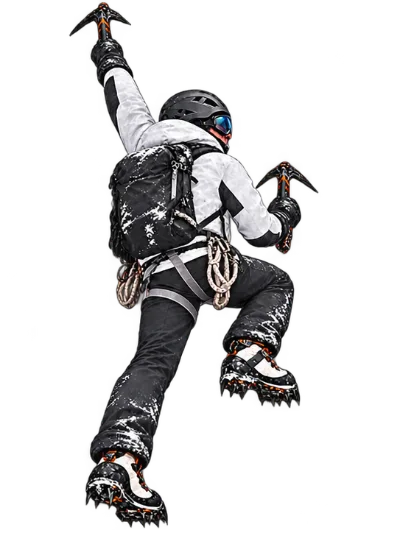
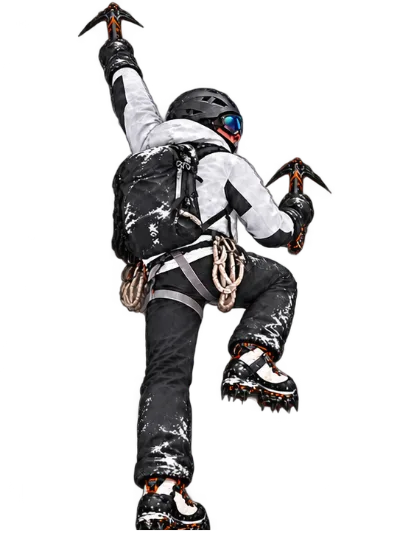
fix: keep Ascent supporting leg beneath climber

Changed region(s): [[0.18, 0.0, 0.84, 1.0]]

diff --git a/_includes/expedition.html b/_includes/expedition.html
@@ -22,7 +22,7 @@
         <ellipse class="expedition-contact-shadow" data-expedition-contact rx="17" ry="5" filter="url(#expedition-contact-blur)" />
         <g class="expedition-climber" data-expedition-climber>
           <svg x="-54" y="-106" width="88" height="117" viewBox="0 0 400 533" overflow="visible">
-            <image data-climber-frame-primary href="{{ '/assets/media/ascent-climber-frame-01.webp' | relative_url }}" width="400" height="533" />
+            <image data-climber-frame-primary href="{{ '/assets/media/ascent-climber-frame-01.webp' | relative_url }}?v=ascent-10" width="400" height="533" />
           </svg>
         </g>
       </g>

diff --git a/assets/js/expedition.js b/assets/js/expedition.js
@@ -17,7 +17,7 @@
   const primaryFrame = climber.querySelector('[data-climber-frame-primary]');
   const firstFrameUrl = primaryFrame.getAttribute('href');
   const frameUrls = Array.from({ length: 17 }, (_, index) =>
-    firstFrameUrl.replace(/01\.webp$/, `${String(index + 1).padStart(2, '0')}.webp`));
+    firstFrameUrl.replace(/01\.webp/, `${String(index + 1).padStart(2, '0')}.webp`));
   // Register each complete illustration by its blue-goggle center. Source
   // sheets varied in character placement; the old unregistered swaps made
   // the whole body jump even when the route/camera was continuous.

diff --git a/_layouts/default.html b/_layouts/default.html
@@ -19,7 +19,7 @@
   <script src="{{ '/assets/js/site.js' | relative_url }}" defer></script>
   <script src="{{ '/assets/js/experience.js' | relative_url }}" defer></script>
   <script src="{{ '/assets/js/contact.js' | relative_url }}" defer></script>
-  {% if page.url == '/journey/' %}<script src="{{ '/assets/js/expedition.js' | relative_url }}?v=ascent-9" defer></script>{% endif %}
+  {% if page.url == '/journey/' %}<script src="{{ '/assets/js/expedition.js' | relative_url }}?v=ascent-10" defer></script>{% endif %}
 </head>
 <body data-baseurl="{{ site.baseurl }}">
   {% include header.html %}

diff --git a/PROJECT_STATUS.md b/PROJECT_STATUS.md
@@ -4,7 +4,7 @@ Updated: October 12, 2026 (America/Los_Angeles).
 
 ## Current state
 
-**The approved site design remains intact. The dedicated Ascent now uses 17 complete, registered black-and-white climber poses. The left crampon rises opposite the right-hand reach, then the right crampon rises opposite the left-hand reach. No limb cutouts, joint rotation, or limb scaling remain.** The self-service Markdown workflow, original content, four navigation destinations, existing links and approved page structure remain intact. Earlier Firefox/WebKit results predate this latest refinement; their executables are unavailable in this environment. Nothing has been pushed, merged or deployed.
+**The approved site design remains intact. The dedicated Ascent uses 17 complete, registered black-and-white climber poses; the straight supporting leg now stays nearly below the hip instead of stretching sideways into a split.** The opposite foot still steps with each arm reach. No limb cutouts, joint rotation, or limb scaling remain. The self-service Markdown workflow, original content, four navigation destinations, existing links and approved page structure remain intact. Earlier Firefox/WebKit results predate this latest refinement; their executables are unavailable in this environment. Nothing has been pushed, merged or deployed.
 
 - Active repository: `C:/Users/super/Documents/ChatGPT/portfolio website remodel/portfolio-v2`.
 - Branch: `codex/portfolio-v2`, based on `da50b14` (`main`).
@@ -12,6 +12,15 @@ Updated: October 12, 2026 (America/Los_Angeles).
 - Original source checkout: `C:/Users/super/Desktop/git2026/smokericeash.github.io/`, unchanged.
 - Local preview: `http://127.0.0.1:4173/`, serving production `_site` output.
 - Parent workspace `PROJECT_STATUS.md` points here. This is the canonical handoff.
+
+## October 12 supporting-leg posture correction — latest handoff
+
+- Completed: redrew five canonical transparent source images and regenerated the affected 400 × 533 WebP poses. In each straight-leg pose, the supporting boot falls almost directly below the hip; the other knee stays bent and stepping upward. Preserved the full-body frame approach, arm sequence, Everest scene, page layout, and content. Added an `ascent-10` image URL and script version so returning browsers fetch the corrected artwork.
+- In progress: none after this commit. The illustrated sequence still has discrete poses rather than a filmed 30 fps motion capture, and foothold contact is visual rather than physically constrained.
+- Design/technical decision: redraw complete figures instead of stretching, hinging, or warping separate limb pieces. Source PNG sheets in `assets/img/` are the editable originals; `npm run build:climber-frames` deterministically creates the shipped WebPs in `assets/media/`.
+- Testing performed: production Jekyll build; all 17 WebPs decoded in Chrome; focused Ascent browser checks; full Chrome browser suite (94 routes, 132 responsive pages, 22 axe scans, 6 general interaction groups, 10 experience groups, 11 editorial groups, 10 Ascent groups); 26 original source files and nine post routes preserved, 47 pages and 1,688 local references valid; nine article rendering contracts; visual review of all 17 rendered `/journey/` phases and individual browser screenshots. The Ascent regression now checks that each support leg's lower portion remains within 60 px of the hip at native 400 px image width and that the support side alternates. Git whitespace check passed.
+- Known issues and limits: the single mid-step drawing briefly has both knees bent; it remains a transition pose. Slow scrolling reveals changes between discrete illustrations. Real-device review, unavailable Firefox/WebKit runners, branch-only Linux CI and custom-domain verification remain outstanding. No push, merge or deployment.
+- **Exact recommended next task:** review `/journey/` on a real phone and desktop with slow/fast up/down scrolling, specifically whether the new vertical supporting leg reads as natural through the mid-step pose. If the character still needs video-like fluidity, create a coherent purpose-animated sequence from one rig/model instead of independently transformed raster limbs. Run branch-only Linux CI and domain checks before any production merge.
 
 ## October 12 alternating-step refinement — latest handoff
 
@@ -255,7 +264,7 @@ The earlier architecture, design, asset and validation commits remain intact (`8
 
 ## Exact recommended next task
 
-**Review the new 17-pose `/journey/` climb at `http://127.0.0.1:4173/journey/` in slow and fast scrolls, both directions, especially opposite-leg movement, frame continuity and hand/boot contact. If filmed motion is still needed, use a coherent purpose-animated sequence or transparent video, not independently transformed limbs. Restore Firefox/WebKit testing, run branch-only Linux CI, and verify custom-domain settings before production merge. Never push or merge directly into main.**
+**Review the corrected 17-pose `/journey/` climb at `http://127.0.0.1:4173/journey/` on real desktop and phone screens, scrolling slowly and quickly in both directions; judge the near-vertical support leg and the brief bent-knee transition. If filmed motion is still needed, use a coherent purpose-animated sequence or transparent video, not independently transformed limbs. Restore Firefox/WebKit testing, run branch-only Linux CI, and verify custom-domain settings before production merge. Never push or merge directly into main.**
 
 ## Reproducible local commands
 

diff --git a/docs/ASCENT_ART.md b/docs/ASCENT_ART.md
@@ -10,6 +10,7 @@ The mountain backdrop, close ice wall and climber poses are original generated i
 - Earlier orange climber source: `assets/img/ascent-climber-frames.png`; its first transparent pose remains at `assets/media/ascent-climber-01.webp` for provenance, but is no longer loaded by the page. That sheet did not provide the current black-and-white frame sequence.
 - Earlier black-and-white climber source: `assets/img/ascent-climber-alpine.png` (1086 × 1448, transparent); optimized single pose: `assets/media/ascent-climber-alpine.webp`. It informed the current clothing, gear and view angle. The hinged raster-limb rig that cut up this painting was removed after it repeatedly produced broken-looking joints.
 - Current animation sources: four transparent 2 × 2 sheets in `assets/img/ascent-climb-step-left.png`, `ascent-climb-hand-to-left.png`, `ascent-climb-step-right.png`, and `ascent-climb-hand-to-right.png`, plus the two full-size intermediate poses `ascent-climb-left-foot-mid.png` and `ascent-climb-right-foot-mid.png`. These were generated with the earlier black-and-white climber as a visual reference, then visually curated into a 17-pose cycle: high right tool with rising left crampon; handover to the high left tool; rising right crampon; handover back to the right tool. The intermediate drawings close the largest leg-position jumps. `npm run build:climber-frames` extracts/optimizes them to `assets/media/ascent-climber-frame-01.webp` through `-17.webp` (400 × 533). The older three cycle sheets remain as provenance but are not used in this revision.
+- October 12 pose correction: the five revised sources `step-left`, `hand-to-left`, `step-right`, `right-foot-mid`, and `hand-to-right` redraw the straight supporting leg almost vertically beneath the hip, replacing the extreme diagonal split visible in earlier frames. The bent stepping leg and alternating arm poses remain. The source sheets are canonical; regenerate WebPs with `npm run build:climber-frames`. The rendered image URL uses `?v=ascent-10` so returning visitors receive the revised art.
 - The site warms the remaining 16 WebPs after the first page paint or on the viewer's first scroll interaction, and shows exactly one complete pose at a time. Each whole illustration is translated slightly so its blue goggles stay at a common anchor. Arms, legs, jacket and gear are never independently rotated or resized. We tried a two-image crossfade in the browser but rejected it because it made the climber translucent and duplicated tools/feet; we also rejected an optical-flow intermediate because it produced broken extra legs. The scene's route/camera update continuously, while the artwork remains 17 discrete poses per entry rather than a filmed or physically simulated climb. Reduced-motion holds the first pose. The outfit is unbranded black-and-white alpine technical gear.
 - The Home identity section reuses the existing Everest illustration through its 800 px WebP derivative. No new mountain asset was generated.
 
